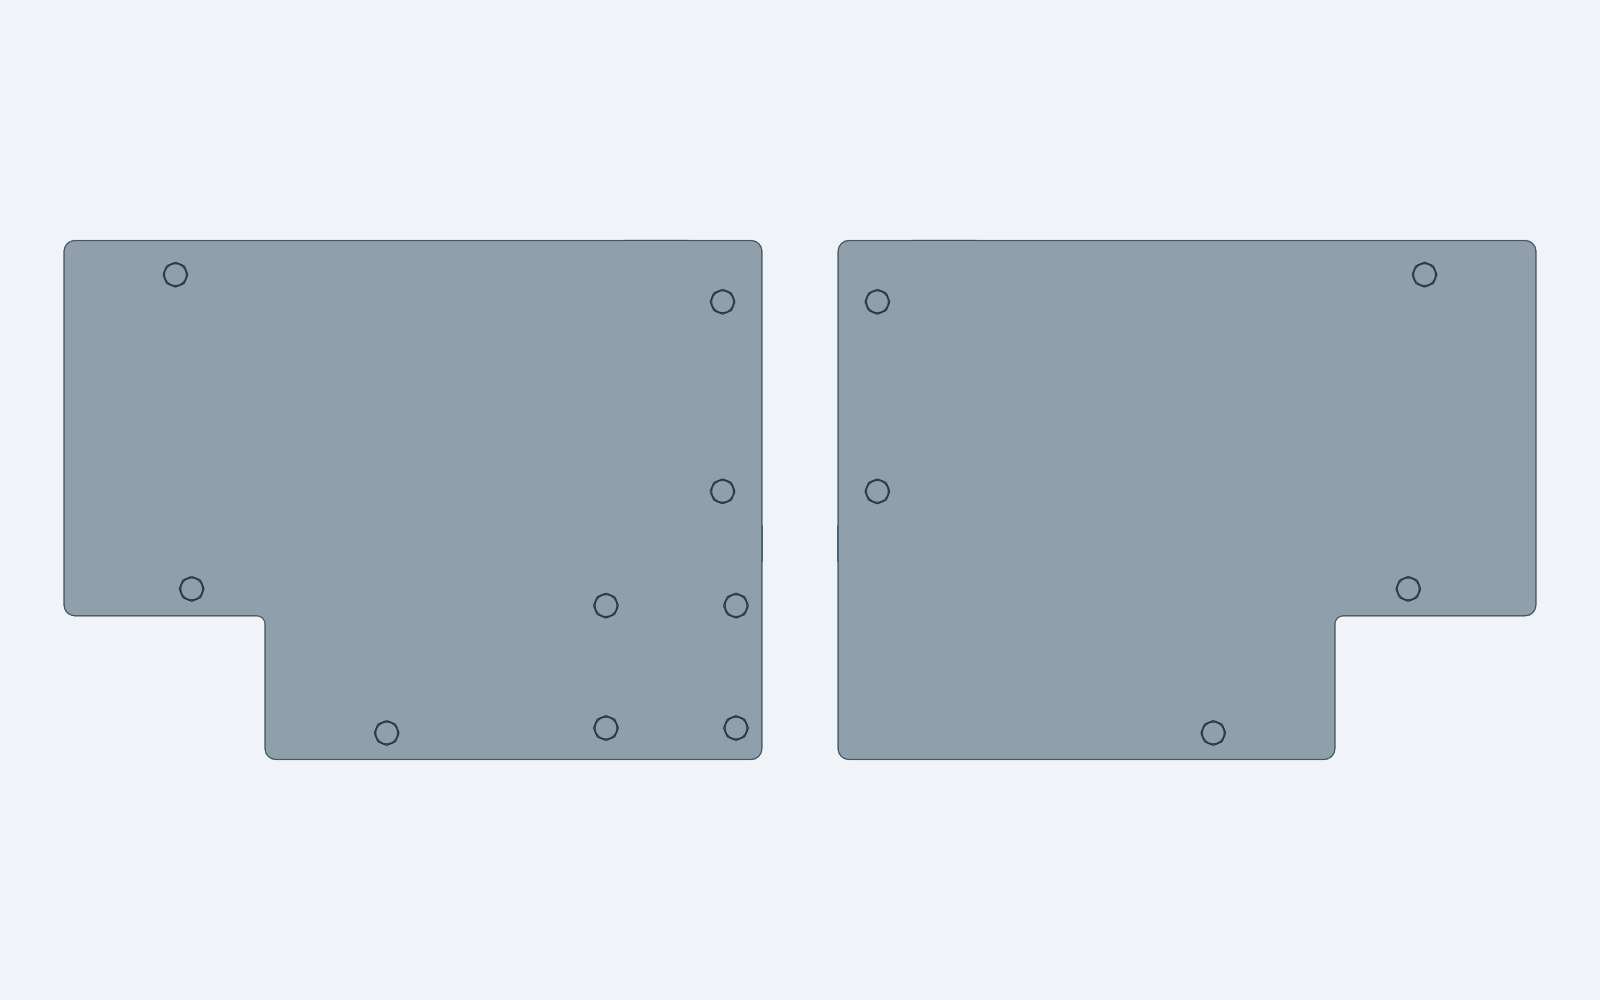
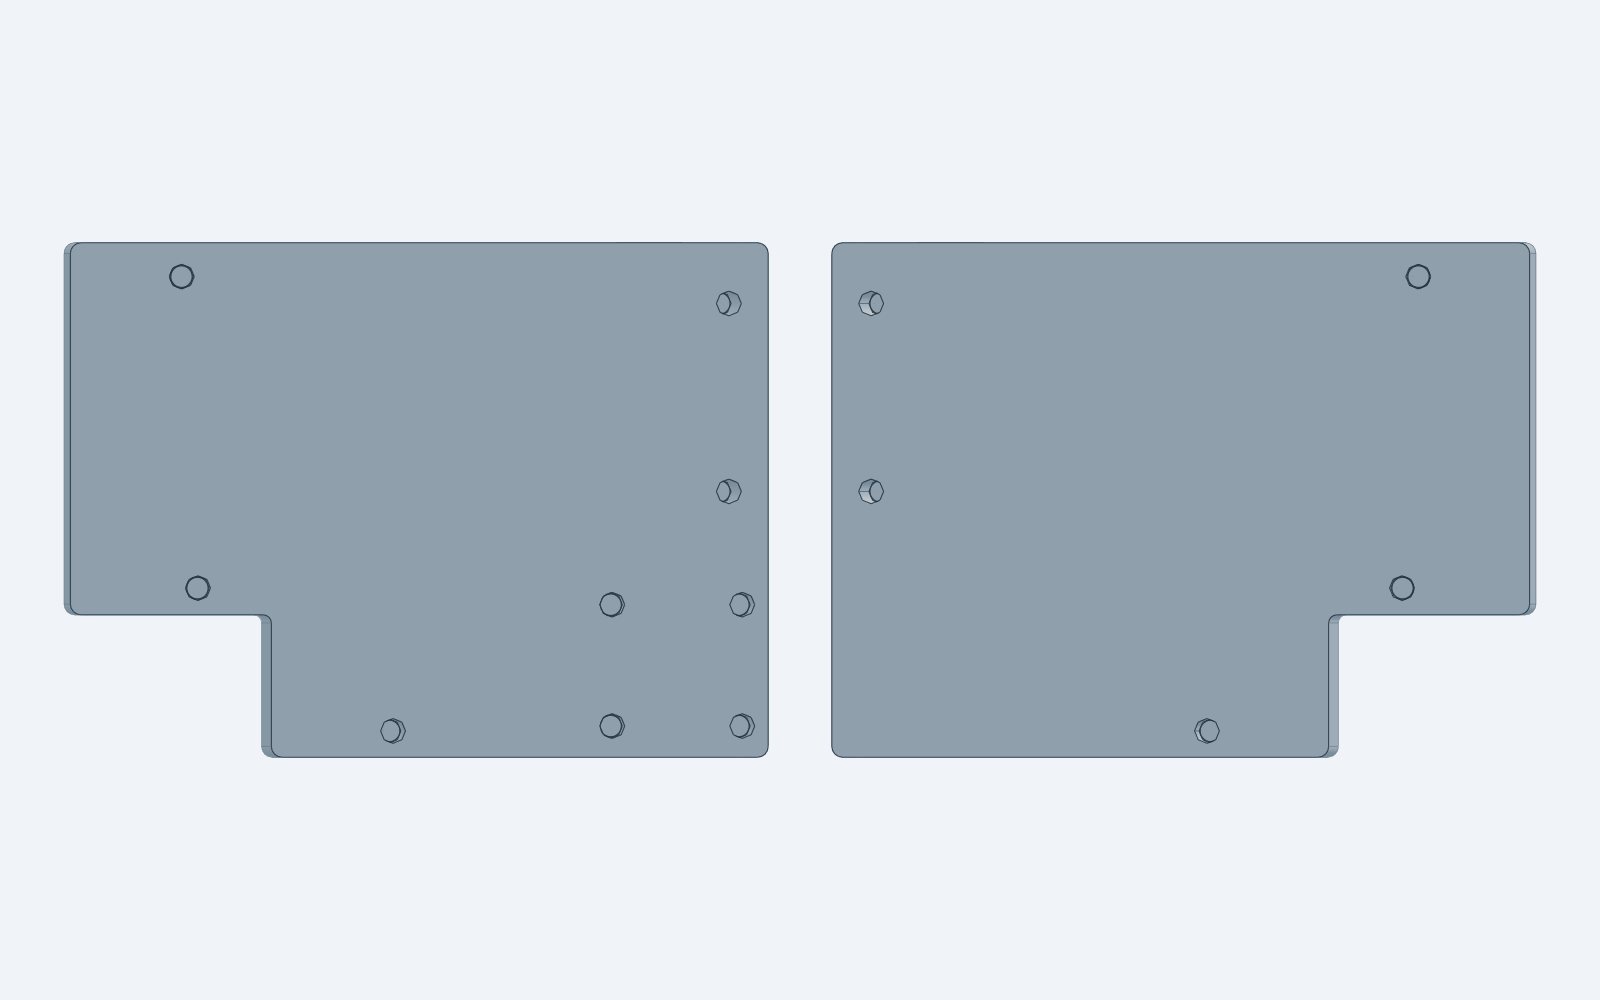
docs,scripts: render full assembly previews from assembly-full-desk.step

diff --git a/scripts/render_previews.py b/scripts/render_previews.py
@@ -1,7 +1,7 @@
 # -*- coding: utf-8 -*-
 """
 Render all 3D preview images for curcur40 into docs/assets/:
-- Full Assembly (ISO, Top, Bottom) from cases/assembly-full.step via cadgen
+- Full Assembly (ISO, Top, Bottom) from cases/assembly-full-desk.step via cadgen
 - Left & Right Main PCBs (Top, Bottom, ISO) via kicad-cli pcb render
 - Left & Right Top Plates via kicad-cli pcb render
 """
@@ -42,9 +42,9 @@ def render_kicad_pcb(pcb_path: Path, out_path: Path, side="top", rotate=None, wi
 
 def render_assembly_step():
     step_jobs = [
-        (WORKSPACE / "cases" / "assembly-full.step", "iso", ASSETS_DIR / "render_full_assembly_iso.png", 1600, 1000),
-        (WORKSPACE / "cases" / "assembly-full.step", "top", ASSETS_DIR / "render_full_assembly_top.png", 1600, 1000),
-        (WORKSPACE / "cases" / "assembly-full.step", "bottom", ASSETS_DIR / "render_full_assembly_bottom.png", 1600, 1000),
+        (WORKSPACE / "cases" / "assembly-full-desk.step", "iso", ASSETS_DIR / "render_full_assembly_iso.png", 1600, 1000),
+        (WORKSPACE / "cases" / "assembly-full-desk.step", "top", ASSETS_DIR / "render_full_assembly_top.png", 1600, 1000),
+        (WORKSPACE / "cases" / "assembly-full-desk.step", "bottom", ASSETS_DIR / "render_full_assembly_bottom.png", 1600, 1000),
         (WORKSPACE / "cases" / "trackball-cup.step", "iso", ASSETS_DIR / "trackball_cup_render.png", 1200, 1000),
         (WORKSPACE / "cases" / "trackball-cup-with-ball.step", "iso", ASSETS_DIR / "trackball_cup_with_ball_render.png", 1200, 1000),
     ]
